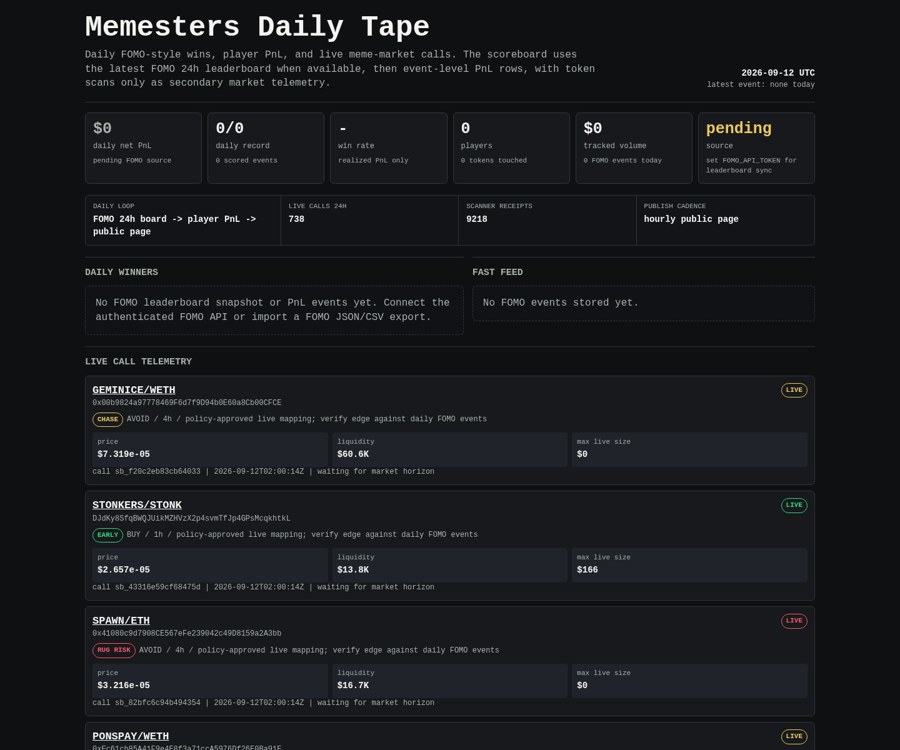
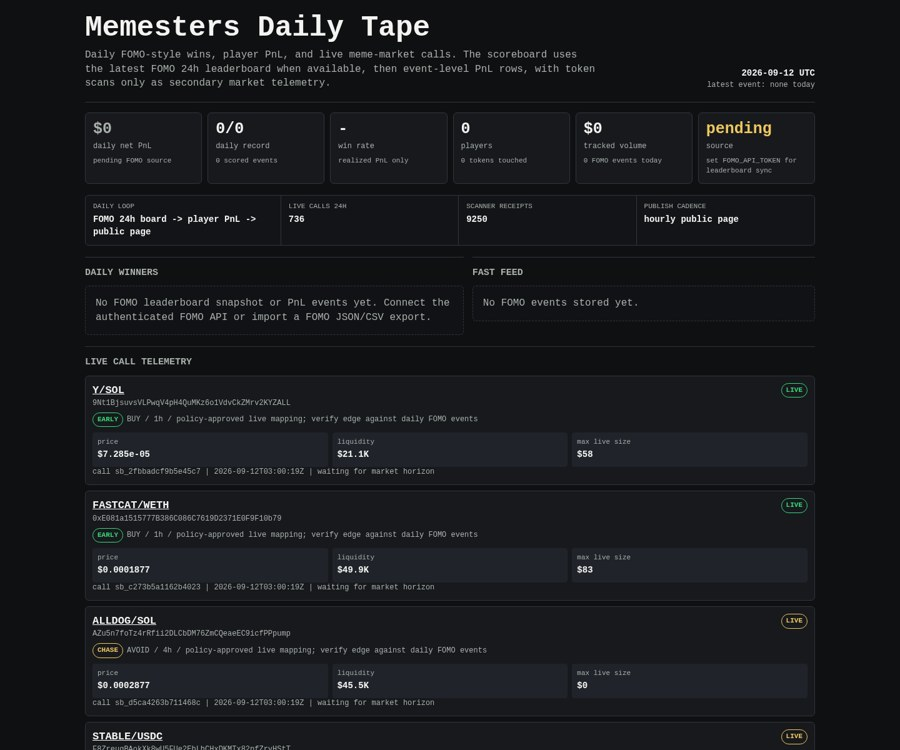
Update Memesters scoreboard

diff --git a/memesters/index.html b/memesters/index.html
@@ -149,8 +149,8 @@
 
     <div class="rail" aria-label="live operating loop">
       <div><span>daily loop</span><b>FOMO 24h board -> player PnL -> public page</b></div>
-      <div><span>live calls 24h</span><b>738</b></div>
-      <div><span>scanner receipts</span><b>9218</b></div>
+      <div><span>live calls 24h</span><b>736</b></div>
+      <div><span>scanner receipts</span><b>9250</b></div>
       <div><span>publish cadence</span><b>hourly public page</b></div>
     </div>
 
@@ -171,29 +171,8 @@
     <article class="receipt">
       <div class="receipt-head">
         <div>
-          <div class="pair"><a href="https://dexscreener.com/robinhood/0x5335e5a21a0753766742b228b2ec09fb9b138c0fc8f5a01a313b4cc0a860d3b9">GEMINICE/WETH</a></div>
-          <div class="addr">0x00b9824a97778469F6d7f9D94b0E60a8Cb00CFCE</div>
-          <div class="addr policy-line">
-            <span class="badge chase">CHASE</span>
-            <span>AVOID / 4h / policy-approved live mapping; verify edge against daily FOMO events</span>
-          </div>
-        </div>
-        <span class="badge chase">LIVE</span>
-      </div>
-      <div class="receipt-grid">
-        <div class="kv"><span>price</span><b>$7.319e-05</b></div>
-        <div class="kv"><span>liquidity</span><b>$60.6K</b></div>
-        <div class="kv"><span>max live size</span><b>$0</b></div>
-      </div>
-      <div class="outcomes">call sb_f20c2eb83cb64033 | 2026-09-12T02:00:14Z | waiting for market horizon</div>
-    </article>
-    
-
-    <article class="receipt">
-      <div class="receipt-head">
-        <div>
-          <div class="pair"><a href="https://dexscreener.com/solana/mcvsi9ffj7cxqzfv6etuamyfm7dn7pfrfsmgrt9ktqy">STONKERS/STONK</a></div>
-          <div class="addr">DJdKy8SfqBWQJUikMZHVzX2p4svmTfJp4GPsMcqkhtkL</div>
+          <div class="pair"><a href="https://dexscreener.com/solana/fbfgf6nnag2ka2frr7dmrm6ayaty9hbs5rnpqypwaqbe">Y/SOL</a></div>
+          <div class="addr">9Nt1BjsuvsVLPwqV4pH4QuMKz6o1VdvCkZMrv2KYZALL</div>
           <div class="addr policy-line">
             <span class="badge early">EARLY</span>
             <span>BUY / 1h / policy-approved live mapping; verify edge against daily FOMO events</span>
@@ -202,19 +181,103 @@
         <span class="badge early">LIVE</span>
       </div>
       <div class="receipt-grid">
-        <div class="kv"><span>price</span><b>$2.657e-05</b></div>
-        <div class="kv"><span>liquidity</span><b>$13.8K</b></div>
-        <div class="kv"><span>max live size</span><b>$166</b></div>
+        <div class="kv"><span>price</span><b>$7.285e-05</b></div>
+        <div class="kv"><span>liquidity</span><b>$21.1K</b></div>
+        <div class="kv"><span>max live size</span><b>$58</b></div>
       </div>
-      <div class="outcomes">call sb_43316e59cf68475d | 2026-09-12T02:00:14Z | waiting for market horizon</div>
+      <div class="outcomes">call sb_2fbbadcf9b5e45c7 | 2026-09-12T03:00:19Z | waiting for market horizon</div>
     </article>
     
 
     <article class="receipt">
       <div class="receipt-head">
         <div>
-          <div class="pair"><a href="https://dexscreener.com/robinhood/0x0423fcbbfb7b8d443177d6843dd2f175c5928fe7d6e93aa163ea6f2958714e29">SPAWN/ETH</a></div>
-          <div class="addr">0x41080c9d7908CE567eFe239042c49D8159a2A3bb</div>
+          <div class="pair"><a href="https://dexscreener.com/robinhood/0x17c5dac2a65fc5cc3752b8d95f60fbcf687e7a718ce296aac643725409553a10">FASTCAT/WETH</a></div>
+          <div class="addr">0xE081a1515777B386C086C7619D2371E0F9F10b79</div>
+          <div class="addr policy-line">
+            <span class="badge early">EARLY</span>
+            <span>BUY / 1h / policy-approved live mapping; verify edge against daily FOMO events</span>
+          </div>
+        </div>
+        <span class="badge early">LIVE</span>
+      </div>
+      <div class="receipt-grid">
+        <div class="kv"><span>price</span><b>$0.0001877</b></div>
+        <div class="kv"><span>liquidity</span><b>$49.9K</b></div>
+        <div class="kv"><span>max live size</span><b>$83</b></div>
+      </div>
+      <div class="outcomes">call sb_c273b5a1162b4023 | 2026-09-12T03:00:19Z | waiting for market horizon</div>
+    </article>
+    
+
+    <article class="receipt">
+      <div class="receipt-head">
+        <div>
+          <div class="pair"><a href="https://dexscreener.com/solana/blsbhf99cqnmdpnxdczivgzzxuu54rvmkuknnmwxqs1e">ALLDOG/SOL</a></div>
+          <div class="addr">AZu5n7foTz4rRfii2DLCbDM76ZmCQeaeEC9icfPPpump</div>
+          <div class="addr policy-line">
+            <span class="badge chase">CHASE</span>
+            <span>AVOID / 4h / policy-approved live mapping; verify edge against daily FOMO events</span>
+          </div>
+        </div>
+        <span class="badge chase">LIVE</span>
+      </div>
+      <div class="receipt-grid">
+        <div class="kv"><span>price</span><b>$0.0002877</b></div>
+        <div class="kv"><span>liquidity</span><b>$45.5K</b></div>
+        <div class="kv"><span>max live size</span><b>$0</b></div>
+      </div>
+      <div class="outcomes">call sb_d5ca4263b711468c | 2026-09-12T03:00:19Z | waiting for market horizon</div>
+    </article>
+    
+
+    <article class="receipt">
+      <div class="receipt-head">
+        <div>
+          <div class="pair"><a href="https://dexscreener.com/solana/3omyn1qdue8ejurdx91xeny5acmltb1pr7z6jotipbd8">STABLE/USDC</a></div>
+          <div class="addr">F8ZreugBAokXk8wU5FUe2EbLhCHxDKMTx82pfZryHStT</div>
+          <div class="addr policy-line">
+            <span class="badge chase">CHASE</span>
+            <span>AVOID / 4h / policy-approved live mapping; verify edge against daily FOMO events</span>
+          </div>
+        </div>
+        <span class="badge chase">LIVE</span>
+      </div>
+      <div class="receipt-grid">
+        <div class="kv"><span>price</span><b>$0.0001244</b></div>
+        <div class="kv"><span>liquidity</span><b>$30.7K</b></div>
+        <div class="kv"><span>max live size</span><b>$0</b></div>
+      </div>
+      <div class="outcomes">call sb_aa499e52360b40e8 | 2026-09-12T03:00:19Z | waiting for market horizon</div>
+    </article>
+    
+
+    <article class="receipt">
+      <div class="receipt-head">
+        <div>
+          <div class="pair"><a href="https://dexscreener.com/robinhood/0xd2f607e83c52ea58a54d5120c37dbe7c76bea6f4a4dbf753d3c9c80fc29dea14">SFM/ETH</a></div>
+          <div class="addr">0x4c86527E9BAd2C977705Fc9f297B95f9623C7AaC</div>
+          <div class="addr policy-line">
+            <span class="badge early">EARLY</span>
+            <span>BUY / 1h / policy-approved live mapping; verify edge against daily FOMO events</span>
+          </div>
+        </div>
+        <span class="badge early">LIVE</span>
+      </div>
+      <div class="receipt-grid">
+        <div class="kv"><span>price</span><b>$4.436e-05</b></div>
+        <div class="kv"><span>liquidity</span><b>$19.6K</b></div>
+        <div class="kv"><span>max live size</span><b>$138</b></div>
+      </div>
+      <div class="outcomes">call sb_9ebc950c431b4ab6 | 2026-09-12T03:00:19Z | waiting for market horizon</div>
+    </article>
+    
+
+    <article class="receipt">
+      <div class="receipt-head">
+        <div>
+          <div class="pair"><a href="https://dexscreener.com/solana/htt2sn1iwc3hbs2jt7vpp8p5kdsoc1egnkn9gug4dxuo">MEMEFI/STONK</a></div>
+          <div class="addr">R1LPJwRqxHm6BpAh2UQeskyktkSNZ4b25fEcRerSTNK</div>
           <div class="addr policy-line">
             <span class="badge rug-risk">RUG RISK</span>
             <span>AVOID / 4h / policy-approved live mapping; verify edge against daily FOMO events</span>
@@ -223,124 +286,19 @@
         <span class="badge rug-risk">LIVE</span>
       </div>
       <div class="receipt-grid">
-        <div class="kv"><span>price</span><b>$3.216e-05</b></div>
-        <div class="kv"><span>liquidity</span><b>$16.7K</b></div>
+        <div class="kv"><span>price</span><b>$5.763e-06</b></div>
+        <div class="kv"><span>liquidity</span><b>$6.6K</b></div>
         <div class="kv"><span>max live size</span><b>$0</b></div>
       </div>
-      <div class="outcomes">call sb_82bfc6c94b494354 | 2026-09-12T02:00:14Z | waiting for market horizon</div>
+      <div class="outcomes">call sb_55293f37fcd54b8b | 2026-09-12T03:00:19Z | waiting for market horizon</div>
     </article>
     
 
     <article class="receipt">
       <div class="receipt-head">
         <div>
-          <div class="pair"><a href="https://dexscreener.com/robinhood/0xb62cb11e906ff4c149b1e411ceb70adc1cbb8e65207dba5887597331a2c60590">PONSPAY/WETH</a></div>
-          <div class="addr">0xEc61cb85A41F9e4E8f3a71ccA5976Df26E0Ba91E</div>
-          <div class="addr policy-line">
-            <span class="badge chase">CHASE</span>
-            <span>AVOID / 4h / policy-approved live mapping; verify edge against daily FOMO events</span>
-          </div>
-        </div>
-        <span class="badge chase">LIVE</span>
-      </div>
-      <div class="receipt-grid">
-        <div class="kv"><span>price</span><b>$6.87e-07</b></div>
-        <div class="kv"><span>liquidity</span><b>$56.4K</b></div>
-        <div class="kv"><span>max live size</span><b>$0</b></div>
-      </div>
-      <div class="outcomes">call sb_21bbcd11fad94327 | 2026-09-12T02:00:14Z | waiting for market horizon</div>
-    </article>
-    
-
-    <article class="receipt">
-      <div class="receipt-head">
-        <div>
-          <div class="pair"><a href="https://dexscreener.com/robinhood/0xbf6a870c6606d004bd21a001a4fa687fc5dd5911e51266bbaf3e496490e71eef">VIV/ETH</a></div>
-          <div class="addr">0xeBE1b386B9Bf74A97a99158DDbD5B184610D6489</div>
-          <div class="addr policy-line">
-            <span class="badge chase">CHASE</span>
-            <span>AVOID / 4h / policy-approved live mapping; verify edge against daily FOMO events</span>
-          </div>
-        </div>
-        <span class="badge chase">LIVE</span>
-      </div>
-      <div class="receipt-grid">
-        <div class="kv"><span>price</span><b>$0.00757</b></div>
-        <div class="kv"><span>liquidity</span><b>$6.9K</b></div>
-        <div class="kv"><span>max live size</span><b>$0</b></div>
-      </div>
-      <div class="outcomes">call sb_3bfe94434f88486c | 2026-09-12T02:00:14Z | waiting for market horizon</div>
-    </article>
-    
-
-    <article class="receipt">
-      <div class="receipt-head">
-        <div>
-          <div class="pair"><a href="https://dexscreener.com/robinhood/0x1a89c4068aa34d758305297e180b7c87b860656ee94e3abfa286fea41dc52990">BEARS/USDG</a></div>
-          <div class="addr">0x7eDC352aBe85335E8B051dB2426881d3Dd098efC</div>
-          <div class="addr policy-line">
-            <span class="badge early">EARLY</span>
-            <span>BUY / 1h / policy-approved live mapping; verify edge against daily FOMO events</span>
-          </div>
-        </div>
-        <span class="badge early">LIVE</span>
-      </div>
-      <div class="receipt-grid">
-        <div class="kv"><span>price</span><b>$5.997e-05</b></div>
-        <div class="kv"><span>liquidity</span><b>$19.9K</b></div>
-        <div class="kv"><span>max live size</span><b>$129</b></div>
-      </div>
-      <div class="outcomes">call sb_de2e2290f98b4a21 | 2026-09-12T02:00:14Z | waiting for market horizon</div>
-    </article>
-    
-
-    <article class="receipt">
-      <div class="receipt-head">
-        <div>
-          <div class="pair"><a href="https://dexscreener.com/bsc/0x3aa951d7bbde5367097090711e516a05f5bf1d4a">SHAN/WBNB</a></div>
-          <div class="addr">0x4F57DA9538F3B4E68bDA142dFdFd1b6b23597777</div>
-          <div class="addr policy-line">
-            <span class="badge chase">CHASE</span>
-            <span>AVOID / 4h / policy-approved live mapping; verify edge against daily FOMO events</span>
-          </div>
-        </div>
-        <span class="badge chase">LIVE</span>
-      </div>
-      <div class="receipt-grid">
-        <div class="kv"><span>price</span><b>$2.995e-05</b></div>
-        <div class="kv"><span>liquidity</span><b>$24.4K</b></div>
-        <div class="kv"><span>max live size</span><b>$0</b></div>
-      </div>
-      <div class="outcomes">call sb_9a3492d4bd1340f5 | 2026-09-12T02:00:14Z | waiting for market horizon</div>
-    </article>
-    
-
-    <article class="receipt">
-      <div class="receipt-head">
-        <div>
-          <div class="pair"><a href="https://dexscreener.com/robinhood/0x352a08962375a6dbb23e2604dbacf7a9ed60198745639e3c99c19ba2b1c8c2a3">GOBLINS/OPENAIx1L</a></div>
-          <div class="addr">0xD81385283C2377C04D3BEC464f50f1F7133e1E18</div>
-          <div class="addr policy-line">
-            <span class="badge chase">CHASE</span>
-            <span>AVOID / 4h / policy-approved live mapping; verify edge against daily FOMO events</span>
-          </div>
-        </div>
-        <span class="badge chase">LIVE</span>
-      </div>
-      <div class="receipt-grid">
-        <div class="kv"><span>price</span><b>$5.378e-05</b></div>
-        <div class="kv"><span>liquidity</span><b>$50.7K</b></div>
-        <div class="kv"><span>max live size</span><b>$0</b></div>
-      </div>
-      <div class="outcomes">call sb_7014bb84080e4b2c | 2026-09-12T02:00:14Z | waiting for market horizon</div>
-    </article>
-    
-
-    <article class="receipt">
-      <div class="receipt-head">
-        <div>
-          <div class="pair"><a href="https://dexscreener.com/robinhood/0x00c83d4db29d96f53cc3d2d0a78475492b34c640d01a6e22f3ba7f78b2de12e0">NATION/ETH</a></div>
-          <div class="addr">0x1A150C5177BED64d13Ba3726Da78D26104F39C2c</div>
+          <div class="pair"><a href="https://dexscreener.com/solana/5j7namihbr4n2ej5ghfvtahdosvqwkzeshaedjhfx6eq">MISSILE/ANTHROPIC</a></div>
+          <div class="addr">HDhRHgjkKAaDsUith1JqnkiRe5d9UngnWXnHsjDgSTNK</div>
           <div class="addr policy-line">
             <span class="badge rug-risk">RUG RISK</span>
             <span>AVOID / 4h / policy-approved live mapping; verify edge against daily FOMO events</span>
@@ -349,32 +307,74 @@
         <span class="badge rug-risk">LIVE</span>
       </div>
       <div class="receipt-grid">
-        <div class="kv"><span>price</span><b>$3.125e-06</b></div>
-        <div class="kv"><span>liquidity</span><b>$5.2K</b></div>
+        <div class="kv"><span>price</span><b>$2.314e-05</b></div>
+        <div class="kv"><span>liquidity</span><b>$13.5K</b></div>
         <div class="kv"><span>max live size</span><b>$0</b></div>
       </div>
-      <div class="outcomes">call sb_c78a55718fa2476b | 2026-09-12T01:45:17Z | waiting for market horizon</div>
+      <div class="outcomes">call sb_ae6bc6df63ac4044 | 2026-09-12T03:00:19Z | waiting for market horizon</div>
     </article>
     
 
     <article class="receipt">
       <div class="receipt-head">
         <div>
-          <div class="pair"><a href="https://dexscreener.com/solana/71gi3kzsakbdzyqz84l2unhtwhdmnmvr6j3sdgiva79d">NUT/SOL</a></div>
-          <div class="addr">3jLrSjMxfWYkcoPQQ9M7J7c7AkrPybPYHEVF8rqWpump</div>
+          <div class="pair"><a href="https://dexscreener.com/robinhood/0x7a3c69c5313e1925ec6342207e906e615cf474668b601896a013d1a759ceac9c">MEME/SPY</a></div>
+          <div class="addr">0x8fEAABC93F3dd4F491417E6fCC72D8F837DC9610</div>
           <div class="addr policy-line">
-            <span class="badge early">EARLY</span>
-            <span>BUY / 1h / policy-approved live mapping; verify edge against daily FOMO events</span>
+            <span class="badge chase">CHASE</span>
+            <span>AVOID / 4h / policy-approved live mapping; verify edge against daily FOMO events</span>
           </div>
         </div>
-        <span class="badge early">LIVE</span>
+        <span class="badge chase">LIVE</span>
       </div>
       <div class="receipt-grid">
-        <div class="kv"><span>price</span><b>$6.253e-05</b></div>
-        <div class="kv"><span>liquidity</span><b>$19.8K</b></div>
-        <div class="kv"><span>max live size</span><b>$237</b></div>
+        <div class="kv"><span>price</span><b>$7.789e-05</b></div>
+        <div class="kv"><span>liquidity</span><b>$37.5K</b></div>
+        <div class="kv"><span>max live size</span><b>$0</b></div>
       </div>
-      <div class="outcomes">call sb_32faaf897f3c4e7c | 2026-09-12T01:45:16Z | waiting for market horizon</div>
+      <div class="outcomes">call sb_8489711d4f454f56 | 2026-09-12T03:00:19Z | waiting for market horizon</div>
+    </article>
+    
+
+    <article class="receipt">
+      <div class="receipt-head">
+        <div>
+          <div class="pair"><a href="https://dexscreener.com/solana/bp5qggheu9yjmytvfu3a992akgqurtsudasee1iwtokv">STONKJITO/SOL</a></div>
+          <div class="addr">ESzj81P4mDSgGoPy9UEy9YNMxgCoFaaA7mwcyN8kpump</div>
+          <div class="addr policy-line">
+            <span class="badge chase">CHASE</span>
+            <span>AVOID / 4h / policy-approved live mapping; verify edge against daily FOMO events</span>
+          </div>
+        </div>
+        <span class="badge chase">LIVE</span>
+      </div>
+      <div class="receipt-grid">
+        <div class="kv"><span>price</span><b>$0.0001862</b></div>
+        <div class="kv"><span>liquidity</span><b>$36.4K</b></div>
+        <div class="kv"><span>max live size</span><b>$0</b></div>
+      </div>
+      <div class="outcomes">call sb_c1b3b0dcb05d48e1 | 2026-09-12T02:45:15Z | waiting for market horizon</div>
+    </article>
+    
+
+    <article class="receipt">
+      <div class="receipt-head">
+        <div>
+          <div class="pair"><a href="https://dexscreener.com/solana/ga21owapki4zbbul5pan8vyu3iwjho6cst4uesztvzre">flywifhat/SOL</a></div>
+          <div class="addr">ANeb72CQNVaWvAMH47kDWpiMP81AB4r8Kvj4oPRCpump</div>
+          <div class="addr policy-line">
+            <span class="badge rug-risk">RUG RISK</span>
+            <span>AVOID / 4h / policy-approved live mapping; verify edge against daily FOMO events</span>
+          </div>
+        </div>
+        <span class="badge rug-risk">LIVE</span>
+      </div>
+      <div class="receipt-grid">
+        <div class="kv"><span>price</span><b>$0.0001485</b></div>
+        <div class="kv"><span>liquidity</span><b>$31.9K</b></div>
+        <div class="kv"><span>max live size</span><b>$0</b></div>
+      </div>
+      <div class="outcomes">call sb_61cf73fc29ec4fcd | 2026-09-12T02:45:15Z | waiting for market horizon</div>
     </article>
     
     </section>
